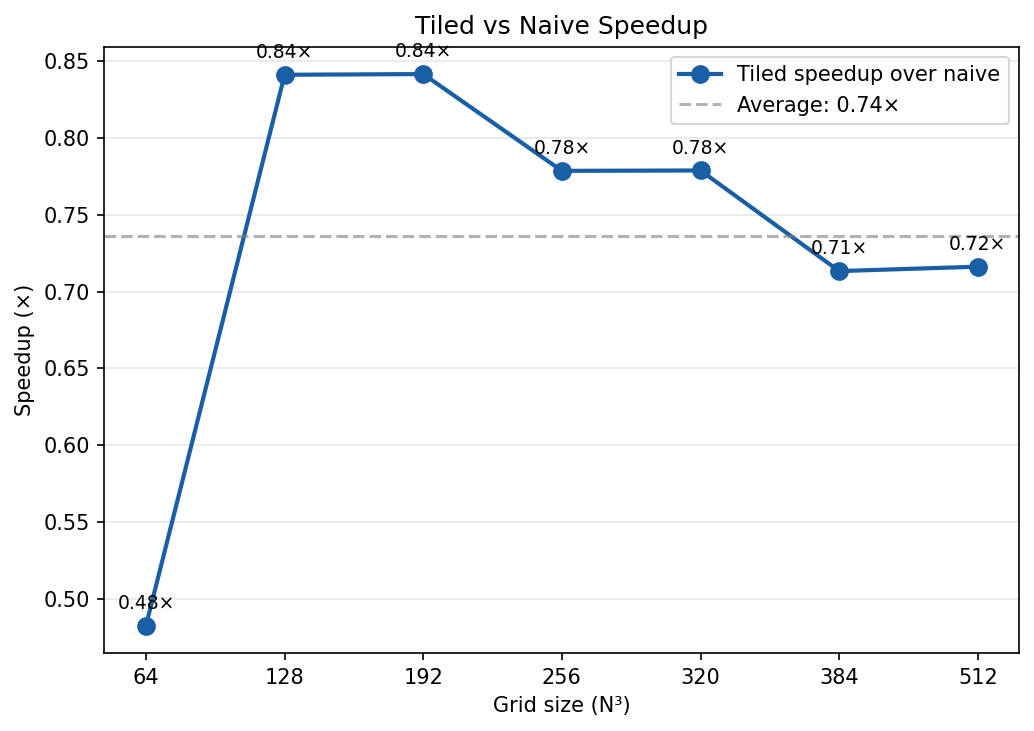
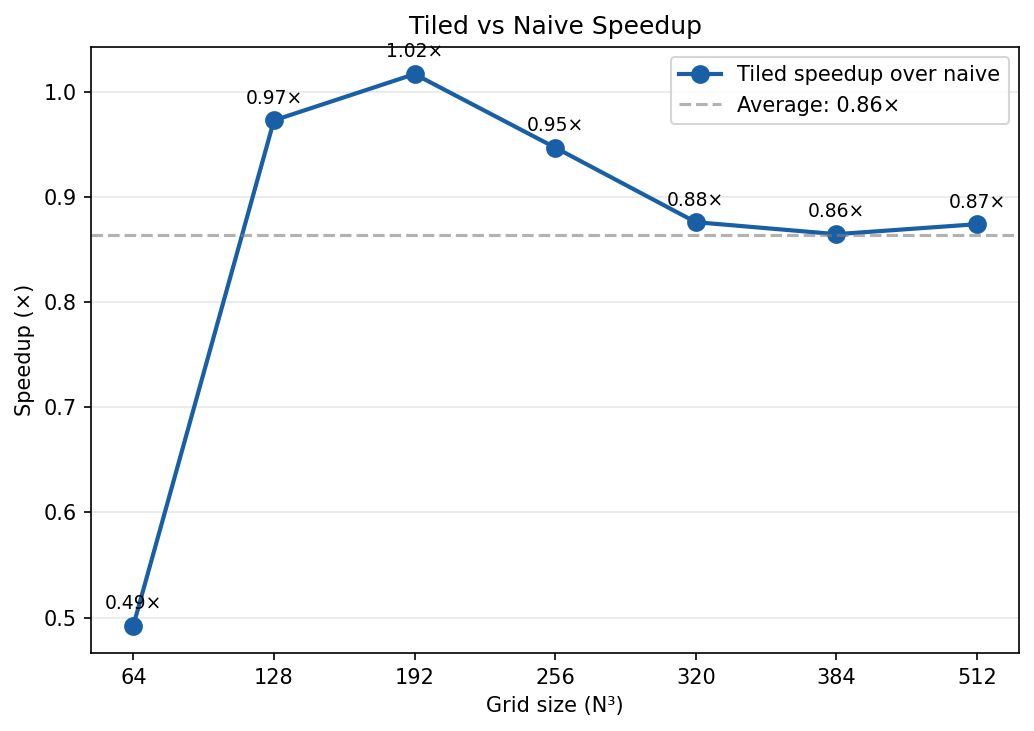
tiled: default PENCIL_Z=20 (best on v2 kernel)

diff --git a/include/stencil/types.hpp b/include/stencil/types.hpp
@@ -53,7 +53,7 @@ using real_t = float;
 #endif
 // Z-pencil depth kept in registers (not shared memory).
 #ifndef PENCIL_Z
-#define PENCIL_Z 12
+#define PENCIL_Z 20
 #endif
 
 // ── CUDA error-checking macros ────────────────────────────────────────────────

diff --git a/docs/BENCHMARKS.md b/docs/BENCHMARKS.md
@@ -8,15 +8,15 @@
 
 | Grid | Naive BW (GB/s) | Tiled BW (GB/s) | Speedup |
 |------|----------------|----------------|---------|
-| 64³ | 237.2 | 114.5 | **0.48×** |
-| 128³ | 147.0 | 123.6 | **0.84×** |
-| 192³ | 161.4 | 135.9 | **0.84×** |
-| 256³ | 173.9 | 135.4 | **0.78×** |
-| 320³ | 176.2 | 137.2 | **0.78×** |
-| 384³ | 177.3 | 126.5 | **0.71×** |
-| 512³ | 178.9 | 128.2 | **0.72×** |
+| 64³ | 234.3 | 115.4 | **0.49×** |
+| 128³ | 147.0 | 143.0 | **0.97×** |
+| 192³ | 157.4 | 160.1 | **1.02×** |
+| 256³ | 174.0 | 164.7 | **0.95×** |
+| 320³ | 176.2 | 154.3 | **0.88×** |
+| 384³ | 175.7 | 151.9 | **0.86×** |
+| 512³ | 178.7 | 156.2 | **0.87×** |
 
-**Average speedup: 0.74×**
+**Average speedup: 0.86×**
 
 ## Plots
 
